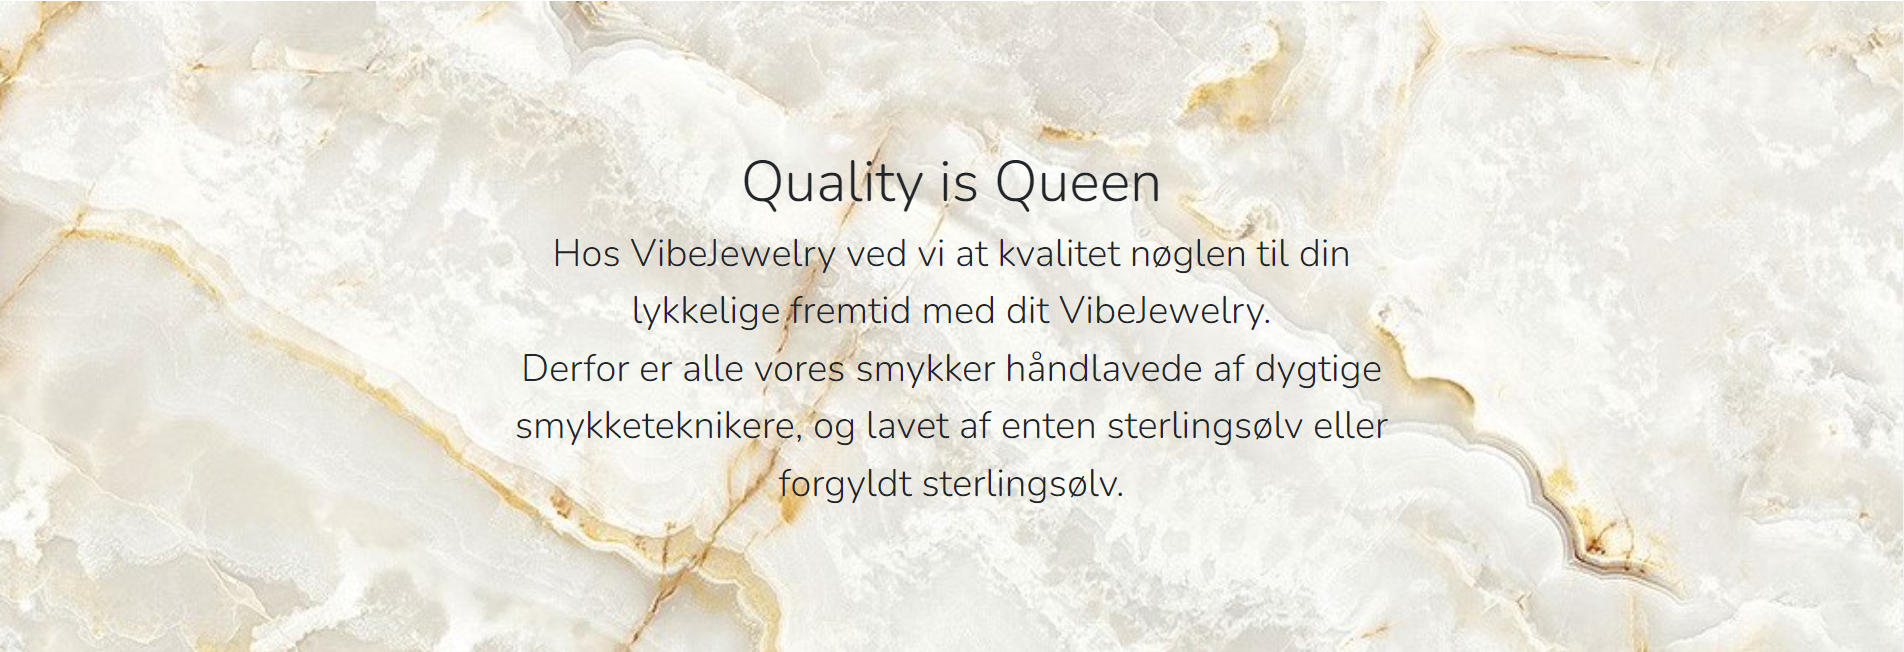
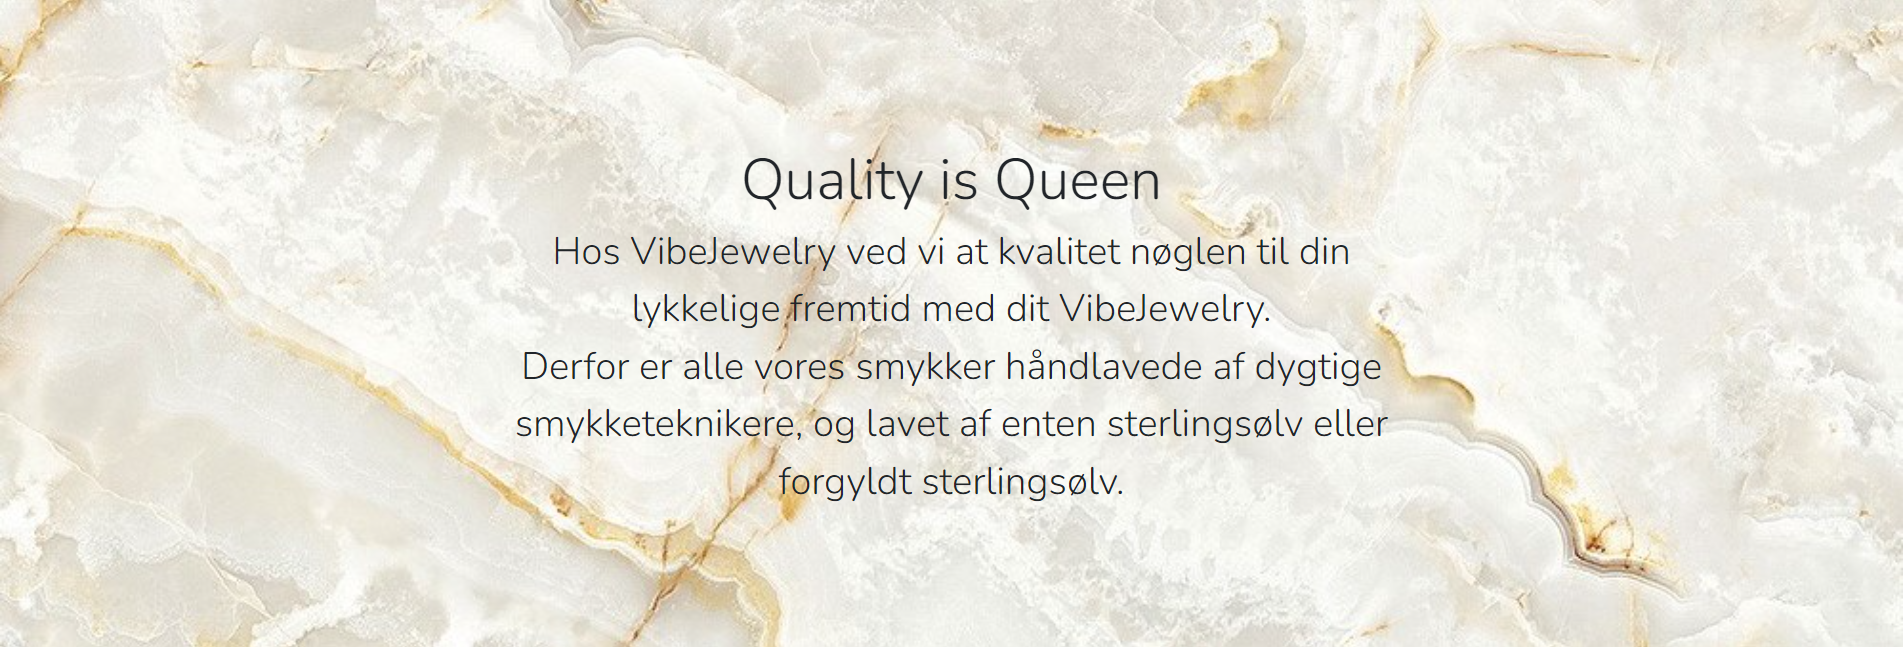
ændringer

diff --git a/public/view-components/navbar/navbar.html b/public/view-components/navbar/navbar.html
@@ -39,17 +39,24 @@
     <title>%%DOCUMENT_TITLE%%</title>
 </head>
 <body>
-
-    <a href="/">
-        <img id="logo" src="/assets/images/icons/bedre_glitter_logo_h100.png" alt="logo">
-    </a>    
+    <div id="logo-wrapper">
+        <a href="/">
+            <img id="logo" src="/assets/images/icons/bedre_glitter_logo_h100.png" alt="logo">
+        </a> 
+    </div>
     <nav>
         <a class="nav-link" href="/">HJEM</a>    
         <a class="nav-link" href="/jewelry">SMYKKER</a>    
+        <div id="nav-user-links-wrapper">
+            <a href="/cart">
+                <img class="user-link-icon" src="/assets/images/icons/cart-icon.png" alt="logo">
+            </a> 
+            <a href="/cart">
+                <img  class="user-link-icon" src="/assets/images/icons/cart-icon.png" alt="logo">
+            </a> 
+
+        </div>
     
-        <a id="cart-link" href="/cart">
-            <img id="cart-icon" src="/assets/images/icons/cart-icon.png" alt="logo">
-        </a> 
      
     </nav>
 

diff --git a/public/assets/css/navbar.css b/public/assets/css/navbar.css
@@ -1,21 +1,36 @@
 /*ALt i toppen er tilsammen 250px*/
-
-#logo {
-    height: 50px;
-    margin: 50px auto 0;
-    display: block;
+#logo-wrapper {
+    height: 100px;
 }
 
+#logo {
+    position: relative;
+    display: block;
+    height: 50%;
+    margin: auto;
+    top: 50%;
+}
+
+
+#nav-user-links-wrapper {
+    position: absolute;
+    right: 0;
+    right: 5%;
+    width: 200px;
+}
+
+/*
 #cart-link {
     position: absolute;
     right: 5%;
-    max-width: 50px;
 }
+*/
 
-#cart-icon {
+.user-link-icon {
     position: relative;
-    width: 100%;
+    width: 10%;
     float: right;
+    margin: 0 10px;
 }
 
 /*150 px*/
@@ -33,6 +48,7 @@ nav {
     border-width: 0 0 1px;
 }
 
+
 .nav-link {
     color: black;
     height: 100px;
@@ -41,8 +57,6 @@ nav {
     display: flex;
     align-items: center;
 }
-
-
 
 /* unvisited link */
 a.nav-link:link {

diff --git a/public/assets/css/global.css b/public/assets/css/global.css
@@ -36,6 +36,15 @@ h1, h2, h3 {
 }
 
 
+.border {
+    border-style: solid;
+    border-color: lightgrey;
+    /*add 
+        border-width: 1px 0;
+    on element
+    */
+}
+
 /*----------FORMS---------*/
 #text {
     height: 200 px;

diff --git a/public/views/frontpage/frontpage.html b/public/views/frontpage/frontpage.html
@@ -1,4 +1,4 @@
-<img id="gold-image" src="/assets/images/marble-with-text.PNG" alt="gold">
+<img id="gold-image" class="border" src="/assets/images/marble-smaller.jpg" alt="gold">
 
 <!--
 <div class="picture-and-text"></div>

diff --git a/public/assets/css/jewelry.css b/public/assets/css/jewelry.css
@@ -25,7 +25,7 @@
 
 .jewelry-col:hover {
     /*border-style: solid;*/
-    box-shadow: 0 0 10px #ebf0d3; /*5b84b1;*/
+    box-shadow: 0 0 10px #d4d66b/*5b84b1;*/
 }
 
 

diff --git a/public/views/frontpage/frontpage.css b/public/views/frontpage/frontpage.css
@@ -2,6 +2,7 @@
     width: 100%;
     margin-top: 50px;
     margin-bottom: 60px;
+    border-width: 1px 0; /*får border top og bot*/
 }
 
 
